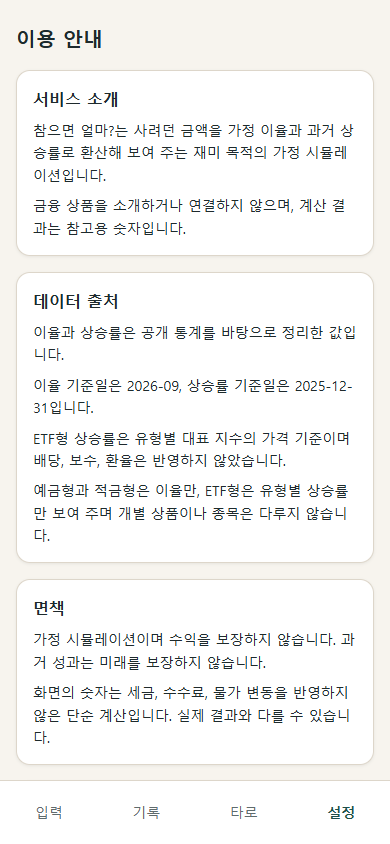
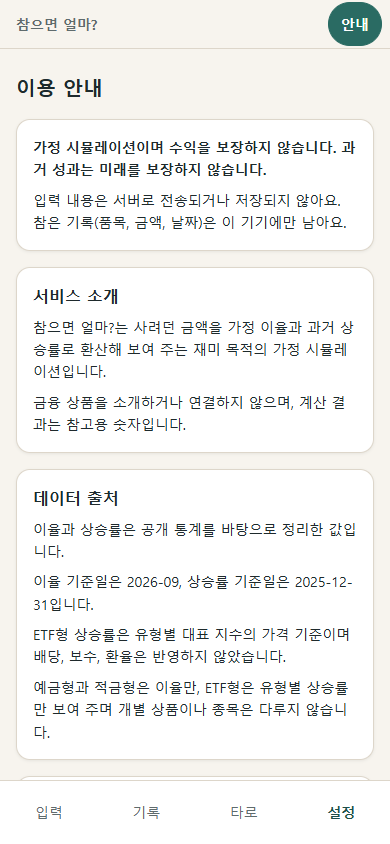
docs: Phase 5 README와 스크린샷 갱신
- 테스트 개수 갱신(단위 23개 파일 273개, E2E 8개 파일 37개)
- Phase 5 가정 목록: 날짜 갱신, 메모리 대체, 오류 화면, 금액 규칙, 터치 영역과 대비, 안내 접근, 배포 메타, 404, Lighthouse 점수
- 상단 헤더가 생겨 스크린샷 재생성

diff --git a/README.md b/README.md
@@ -79,10 +79,11 @@ src/
                CoinStage → PiggyBank(3D, 지연 로드) / CoinFallback2d(SVG)
                ScaleStage → Scale(3D, 지연 로드) / ScaleFallback2d(막대 SVG)
                TarotStage → TarotCard(3D, 지연 로드) / TarotFallback2d(CSS 뒤집기)
-  screens/     Input, Result, Choice, Log, Tarot, Settings, Guide
-  store/       localStorage 래퍼(허용 필드만 읽고 씀)
+  hooks/       useToday(오늘 날짜 상태, 복귀 시 갱신)
+  screens/     Input, Result, Choice, Log, Tarot, Settings, Guide, AppErrorBoundary
+  store/       localStorage 래퍼(허용 필드만 읽고 씀, 저장소를 못 쓰면 메모리 대체)
   styles/      tokens.css(디자인 토큰), app.css
-scripts/       fetch-data.ts, scan-banned.ts, build-blocklist.ts, banned-terms.txt, allow-tokens.txt
+scripts/       fetch-data.ts, scan-banned.ts, build-blocklist.ts, make-icons.ts, banned-terms.txt, allow-tokens.txt
 tests/         unit(Vitest), e2e(Playwright)
 docs/          PLAN, PROMPT_DEV, PROMPT_MESSAGES, SETUP, DATA_SOURCES, SUBMISSION, screenshots
 ```
@@ -122,34 +123,44 @@ docs/          PLAN, PROMPT_DEV, PROMPT_MESSAGES, SETUP, DATA_SOURCES, SUBMISSIO
 
 ## 품질 보증
 
-### 단위 테스트 (Vitest): 17개 파일, 197개
+### 단위 테스트 (Vitest): 23개 파일, 273개
 
 | 파일 | 개수 | 내용 |
 | --- | --- | --- |
+| contrast.test.ts | 41 | tokens.css 대비(라이트, 다크): 텍스트 16조합 4.5:1, 포커스 외곽선 4조합 3:1 |
 | calc.test.ts | 29 | 복리, 적금, 타임머신 계산, 경계값, 범위 오류, 시작 연도 범위 |
 | inputFilter.test.ts | 21 | 상호명 거부, 일반 명칭 허용, 영문 거부, 결과에 원문 없음, 품목 사전 무결성, 해시 목록 동기화 |
 | data.test.ts | 19 | rates, returns 스키마, 연도 연속성, isSample 일관성, 티커와 지수명 없음 |
+| storage.test.ts | 16 | 허용 필드만 저장, 이율 보정, 손상 데이터 복구, 초기화, 타로 저장, 저장소 차단과 용량 초과 시 메모리 대체 |
 | tarot.test.ts | 15 | 날짜 시드 결정성과 범위, 하루 한 장 판정, 날짜 변경 시 새 카드, 조언에 자리표시자 없음, 타로 문구 금칙어 |
 | messages.test.ts | 15 | 문구 규칙(자리표시자, 길이, 권유 어미, 과장, 금칙어, 시제) |
 | scanBanned.test.ts | 13 | 티커 규칙 범위(식별자, 주석, 모듈 경로, CSS 통과 / 문자열, 템플릿, JSX 텍스트, 데이터 JSON 실패), 권유 표현과 상품명은 전체 적용, 줄 번호 |
 | coinCount.test.ts | 13 | 코인 수 경계, 단조성, 원금 코인과 불어난 코인 분리 |
 | scaleTilt.test.ts | 12 | 저울 기울기: 0원, 같은 금액, 비율 상한과 하한 경계, 하락 구간, 잘못된 입력, 대체 텍스트 |
-| storage.test.ts | 11 | 허용 필드만 저장, 이율 보정, 손상 데이터 복구, 초기화, 타로 날짜와 id만 저장 |
+| copy.test.ts | 10 | 이용 안내 필수 내용, 타로 고지, 개인정보, 오류와 저장소와 금액 안내 문구의 권유 어미와 금칙어 |
+| amount.test.ts | 10 | 금액 입력: 0, 음수, 1억 초과, 소수점, 쉼표와 원, 전각, 지수 표기, 빈 값 |
 | stats.test.ts | 9 | 누적 금액, 연속 일수, 7일 집계 |
 | fallback.test.ts | 8 | 2D 폴백 조건 전체 조합, WebGL과 동작 줄이기 감지 |
 | messages.render.test.ts | 7 | 모든 품목 대입 시 조사 일치, 자리표시자 잔존 없음 |
 | format.test.ts | 6 | 원 단위 반올림, 콤마, 원과 퍼센트 표기 |
-| copy.test.ts | 6 | 이용 안내 필수 내용, 타로 고지 문구, 권유 어미, 금칙어 |
+| today.test.ts | 5 | 날짜 갱신 판정(같은 날, 자정, 월과 연 경계, 시계 역행), 타로 시드 연동 |
+| meta.test.ts | 5 | index.html 메타(설명, 뷰포트, 테마 색, OG), 자체 제작 파비콘, OG와 아이콘 크기 |
 | messagePick.test.ts | 5 | 카테고리, 금액 구간, 톤별 문구 선택 |
 | template.test.ts | 4 | 자리표시자 치환, 조사 보정 |
 | sceneColors.test.ts | 4 | 3D 색을 tokens.css 변수에서 읽기, 없으면 기본값 |
+| appErrorBoundary.test.tsx | 4 | 렌더 오류 안내 화면, 오류 원문 미노출, 다시 시도 복구, 반복 실패 시 새로고침(happy-dom) |
+| contextLost.test.ts | 2 | WebGL 컨텍스트 소실 이벤트 감지 |
 
-### E2E (Playwright, Chromium): 4개 파일, 19개
+### E2E (Playwright, Chromium): 8개 파일, 37개
 
 - `flow.spec.ts` (3개): 상호명 거부, 원문 미표시와 미저장, 환산, 참았어요 기록, 기타 소비 처리, 이용 안내 이동
 - `scene.spec.ts` (8개): 3D 캔버스와 대체 텍스트, 2D 폴백(WebGL 미지원, 동작 줄이기, 설정 토글), 2D 코인 색 구분, ETF 한마디 시제, ETF 시작 연도 범위, 저금통/저울 전환, 저울 2D 폴백
-- `tarot.spec.ts` (4개): 탭 이동 → 키보드로 뒤집기 → 새로고침 후 같은 카드와 뒤집기 버튼 없음, 어제 기록이면 다시 뒤집기 가능, WebGL 미지원 CSS 폴백, 동작 줄이기 2D
+- `tarot.spec.ts` (5개): 탭 이동 → 키보드로 뒤집기 → 새로고침 후 같은 카드와 뒤집기 버튼 없음, 어제 기록이면 다시 뒤집기 가능, WebGL 미지원 CSS 폴백, 동작 줄이기 2D, 자정 넘김 후 앱 복귀 시 새 카드(가짜 시계)
 - `loading.spec.ts` (4개): 첫 화면에서 three 청크 미요청, 저금통/저울/타로 3D 청크를 붙잡아 두는 동안 2D 대체 화면과 준비 중 표시, 이후 3D 전환
+- `stability.spec.ts` (7개): localStorage 차단과 용량 초과에서 흐름 동작과 안내, WebGL 컨텍스트 소실 시 저금통/저울/타로 2D 전환, 금액 입력 경계값과 붙여넣기
+- `a11y.spec.ts` (4개): 7개 화면 터치 영역 44px, 키보드 탐색과 포커스 외곽선, 3D 대체 텍스트, 동작 줄이기
+- `guide.spec.ts` (3개): 어느 화면에서든 안내 열기와 돌아가기, 고정 면책과 개인정보 문구, 입력 화면 개인정보 문구
+- `base-path.spec.ts` (3개, `base-path` 프로젝트): `BASE_PATH=/chameumyeon-eolma/` 빌드에서 자산 404 없음, 새로고침, 딥링크, 404.html
 - 헤드리스에서는 소프트웨어 WebGL(swiftshader)로 3D를 렌더링한다.
 
 ### 금칙어 스캔 (`npm run scan:banned`)
@@ -190,7 +201,7 @@ BASE_PATH=/chameumyeon-eolma/ npm run build
 npm test                          # 단위 테스트
 npm run scan:banned               # 금칙어 스캔
 npx playwright install chromium   # 최초 1회
-npm run test:e2e                  # E2E(빌드 후 preview 서버로 실행)
+npm run test:e2e                  # E2E(루트 빌드 4173, BASE_PATH 빌드 4174 preview 서버로 실행)
 ```
 
 스크린샷 갱신:
@@ -313,6 +324,33 @@ $env:SCREENSHOTS='1'; npm run test:e2e    # PowerShell
 - (보정) 3D 모듈을 받는 동안에는 Suspense 대체 화면으로 같은 정보의 2D 그래픽 위에 "3D 준비 중" 표시를 띄운다(`SceneLoading`). 이 표시는 보조 기기에서 숨긴다. 정보는 영역의 대체 텍스트에 이미 있다. 타로는 로딩 중에도 뒤집기 버튼이 동작한다.
 - (보정) 금칙어 스캔의 티커 규칙을 화면 문자열과 데이터 JSON으로 한정했다. 그래서 규칙을 피하려고 바꿨던 코드(`Math.acos`, 밑줄 상수명, 주석 표기)를 되돌렸다.
 - (보정) oxlint `use-memo` 경고 3건(PiggyBank, Scale, TarotCard)은 `useMemo` 첫 인자를 인라인 함수로 바꿔 정리했다. 남은 경고는 이전 Phase부터 있던 3건이다. `template.ts`의 정규식 문자열 이스케이프 2건과 `App.tsx`의 렌더 중 `new Date()` 1건이다.
+
+### Phase 5 출시 품질 점검
+
+- 날짜: 앱 시작 시 한 번 읽고(`useToday`), 앱이 다시 보이거나(visibilitychange) 포커스될 때 날짜 키가 바뀌었으면 갱신한다. 기록 화면과 타로 일일 시드가 같은 값을 쓴다. 화면을 계속 띄워 둔 채로 자정을 넘기면 다음 복귀 때 바뀐다. 기록 저장 날짜는 버튼을 누른 시점의 시각이다.
+- 저장소: `resilientKV`가 브라우저 저장소 앞에 메모리 사본을 둔다. 차단(SecurityError), 시크릿 모드, 용량 초과면 같은 세션에서는 메모리로 동작하고, 설정 화면에 "앱을 닫으면 사라져요" 안내를 띄운다. 시작 시 쓰기를 한 번 시험한다(`chameum.probe`, 바로 지움).
+- 오류: `AppErrorBoundary`가 앱 전체를 감싼다. 오류 원문은 보여 주지 않는다. 다시 시도는 먼저 다시 렌더하고, 3초 안에 또 실패하면 새로고침한다. JSON 데이터는 번들에 포함된 정적 import라 별도 로딩 실패는 없고 렌더 오류로 처리된다.
+- WebGL 컨텍스트 소실(`webglcontextlost`)이면 그 3D 영역만 2D로 바꾼다. 다른 3D 영역은 다음에 열 때 다시 3D를 시도한다.
+- 금액 입력(`parseAmountInput`)
+  - 소수점 아래는 버린다. 이전에는 `1234.56`이 123,456으로 해석되는 버그가 있었다.
+  - 쉼표, 공백, 원, ₩는 무시하고, 전각 숫자는 NFKC로 바꾼다.
+  - 앞에 마이너스가 있으면 0으로 보고 안내한다.
+  - 1억 원을 넘으면 1억으로 자르고 안내한다.
+  - `1e5`처럼 지수 표기는 숫자만 남겨 15가 된다.
+- 터치 영역: 버튼, 탭, 칩, 체크박스(감싸는 label 기준)는 최소 44px이다.
+- 포커스: 전역 `:focus-visible` 외곽선을 쓴다. 기존 accent 색은 라이트 배경 대비가 2.85:1이라 포커스 전용 색 `--color-focus`(라이트 #a5601a, 4.46:1)를 두었다.
+- 대비: 텍스트 조합은 라이트와 다크 모두 4.5:1 이상이다. accent는 인용 테두리 같은 장식에만 쓴다.
+- 안내 접근: 모든 화면 상단 고정 헤더에 안내 버튼을 둔다. 안내 화면 상단에 면책 문구와 "입력 내용은 서버로 전송되거나 저장되지 않아요."를 고정한다. 기록이 기기에 남는 사실은 보충 문장으로 함께 밝힌다. 화면을 바꾸면 맨 위로 스크롤한다.
+- 배포 메타
+  - 파비콘은 직접 그린 코인 SVG다.
+  - OG 이미지와 홈 화면 아이콘은 `scripts/make-icons.ts`가 직접 만든 HTML 카드를 캡처해 `public/`에 만든다.
+  - OG URL은 `SITE_URL`(deploy.yml이 configure-pages의 base_url을 넘김)로 절대 경로를 쓰고, 없으면 base 기준 경로를 쓴다.
+- 404: 라우터 없이 상태로 화면을 바꾸므로 URL은 바뀌지 않는다. GitHub Pages에서 하위 경로나 쿼리로 들어와도 열리도록 빌드 후 `404.html`을 `index.html` 복사본으로 만든다.
+- Lighthouse 13.6.0(모바일 에뮬레이션, 시뮬레이션 스로틀링, 로컬 preview 첫 화면, 2026-11-25)
+  - 점수: 성능 100, 접근성 100, 권장사항 100
+  - 지표: FCP 0.8s, LCP 0.8s, TBT 10ms, CLS 0
+  - 3D 화면(three 청크 gzip 약 243 kB)은 첫 화면이 아니라 측정 대상이 아니다.
+- 테스트 도구: 컴포넌트 테스트용으로 happy-dom과 Testing Library를 devDependency로 추가했다. Lighthouse는 `npx`로 한 번만 실행했고 의존성에 넣지 않았다.
 
 ### 배포 준비
 
